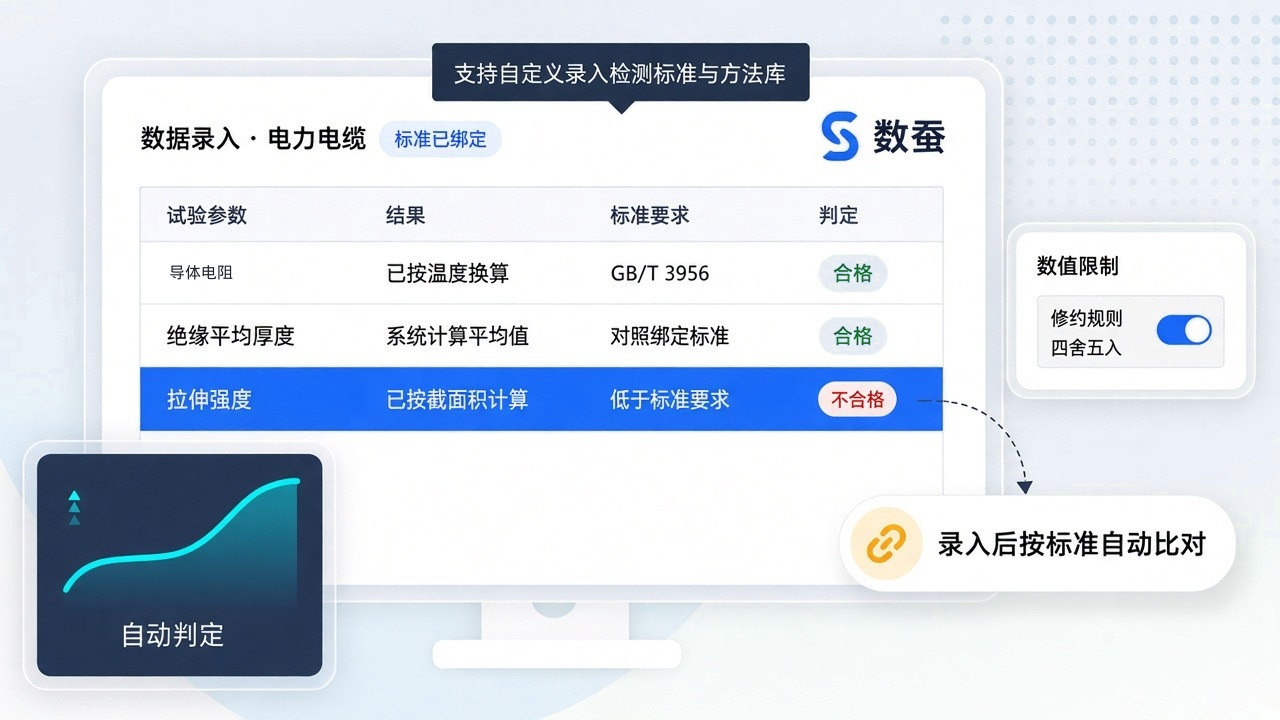
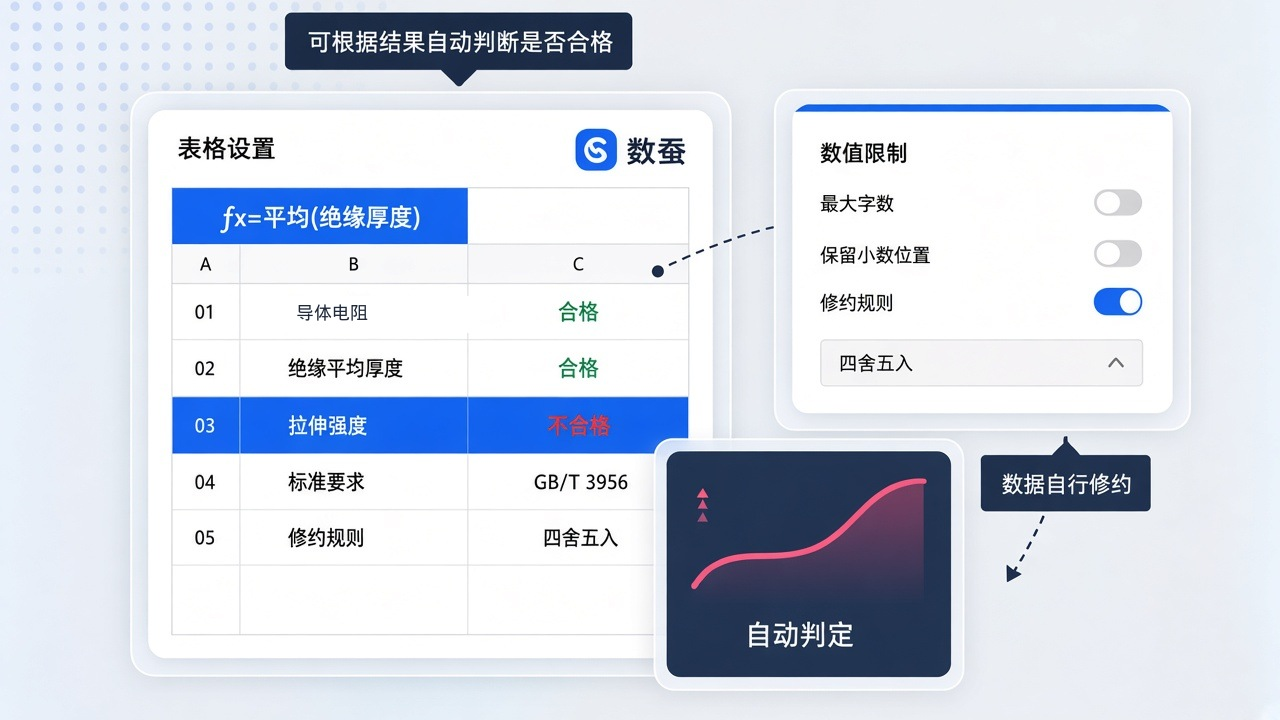
fix: 优势1配图改成表格修约和自动判定

diff --git a/shucan-lims-brochure.html b/shucan-lims-brochure.html
@@ -330,7 +330,7 @@
             </ul>
           </div>
           <div class="visual">
-            <img class="illu" src="assets/brochure/12-standard-judge.jpg?v=blue" alt="电力电缆数据录入后，按绑定标准自动比对，导体电阻、绝缘平均厚度判定合格，拉伸强度判定不合格" />
+            <img class="illu" src="assets/brochure/12-standard-judge.jpg?v=sheet" alt="表格里按标准自动判定：导体电阻和绝缘平均厚度合格，拉伸强度不合格，修约规则为四舍五入" />
             <p class="cap">录入后按标准自动比对，复杂公式由系统计算。</p>
           </div>
         </article>
